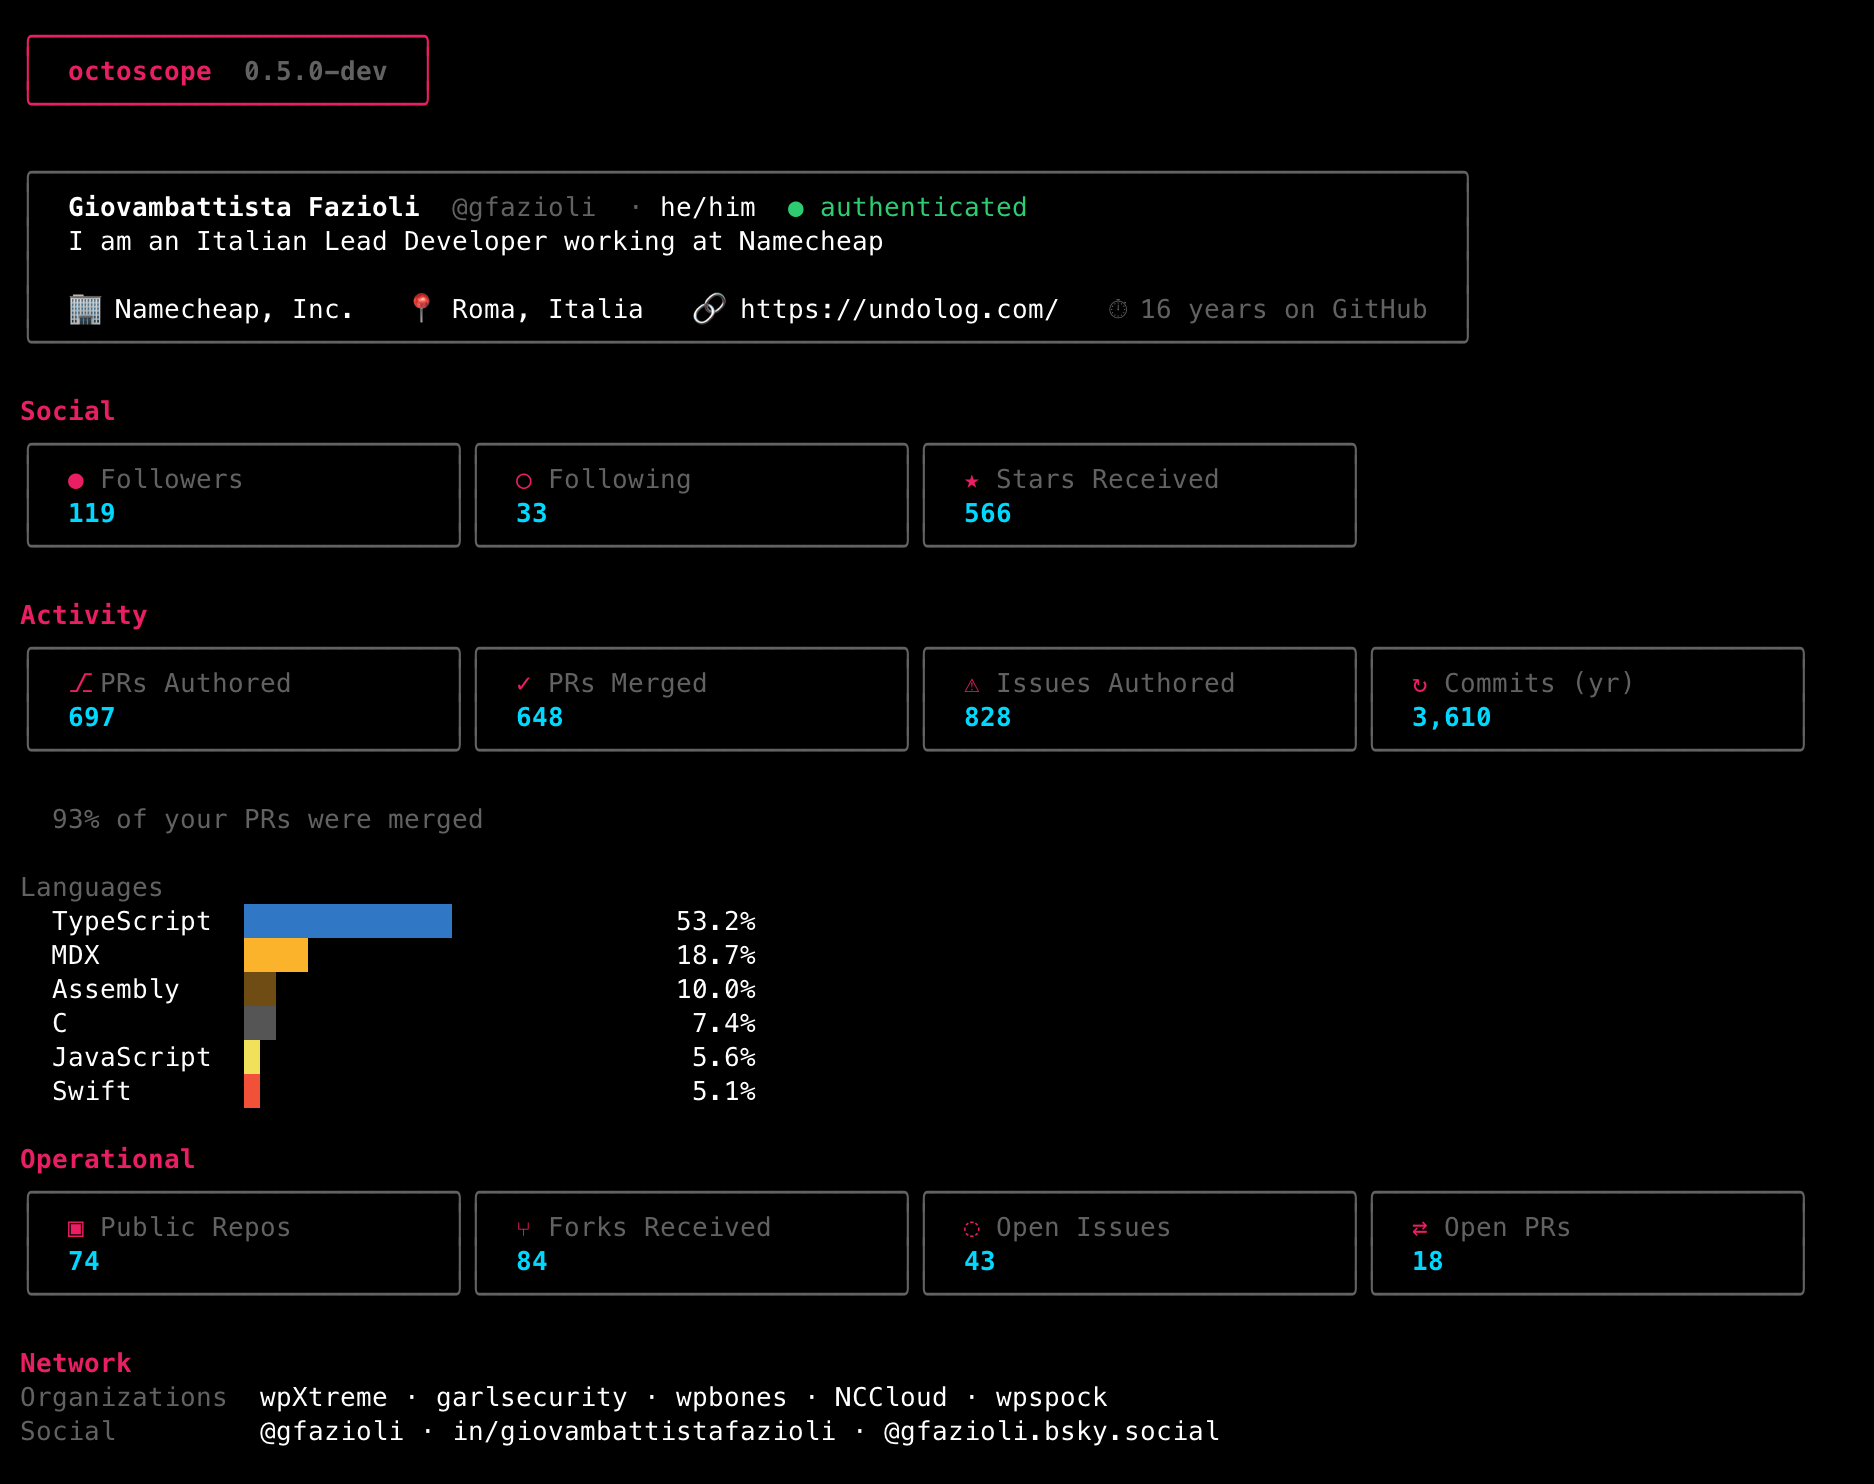
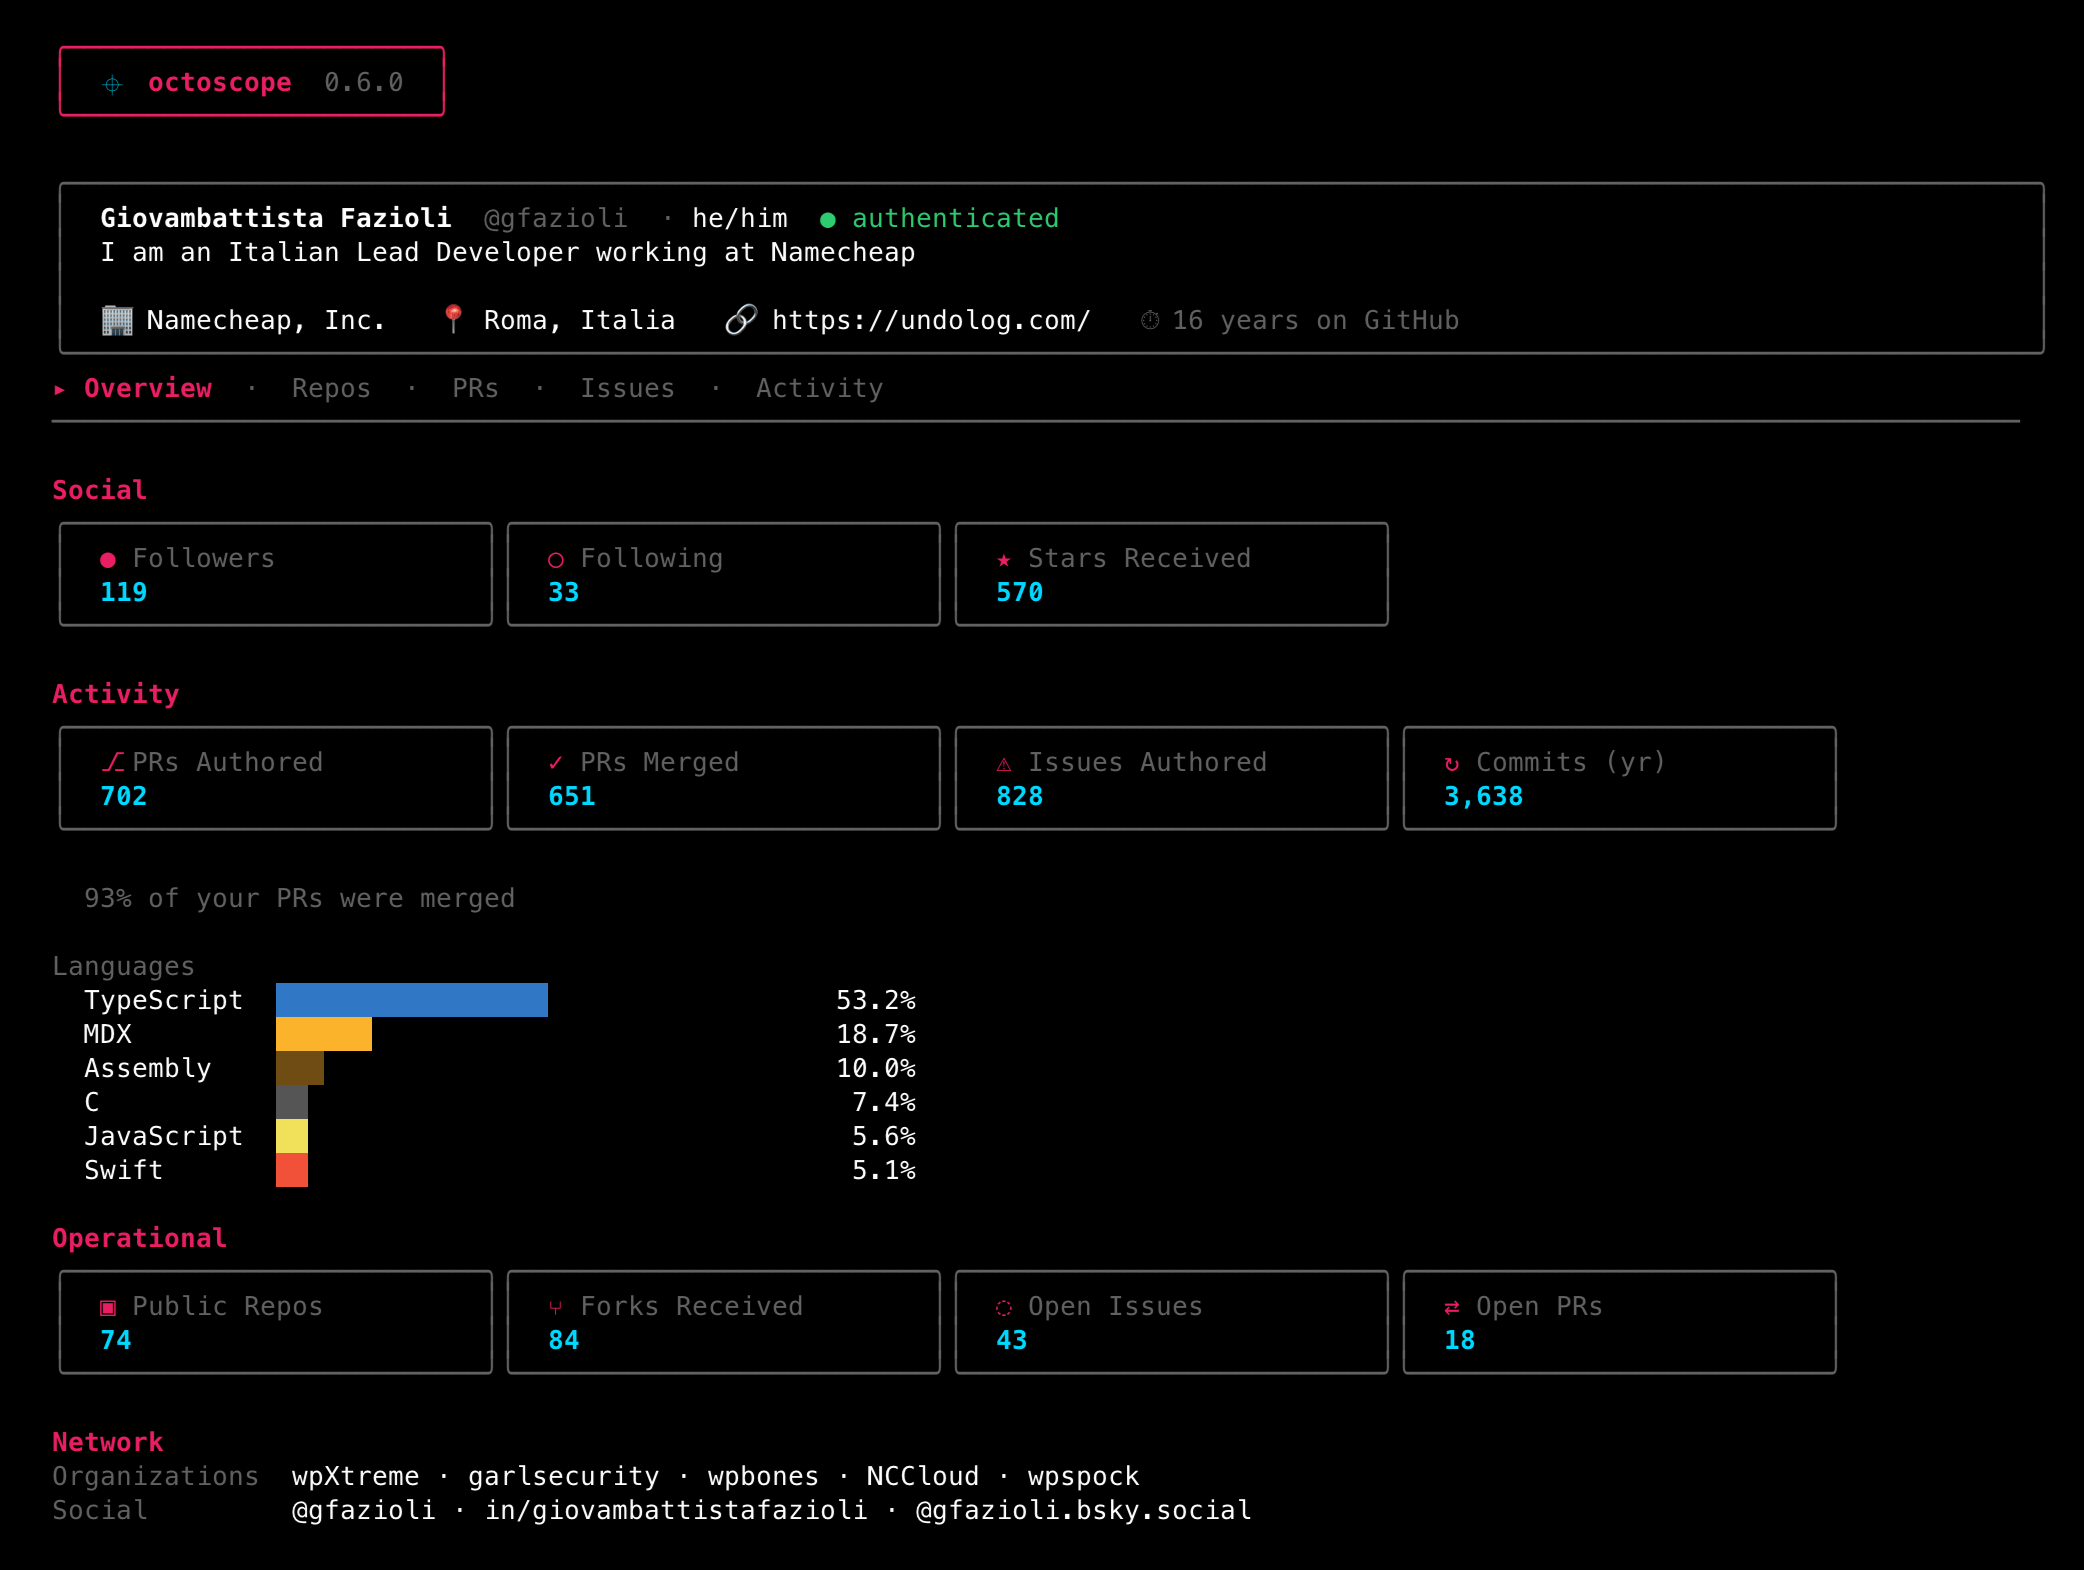
docs: refresh hero screenshot to show v0.6.0 tab bar
Replaces the v0.5.x landing screenshot with the new Overview tab: the
crosshair-glyph banner, the five-tab bar, and all five sections. Alt
text updated to mention the tabs so readers-on-screen-readers get the
same story.

diff --git a/docs/index.html b/docs/index.html
@@ -434,7 +434,7 @@
     <div class="container">
         <div class="demo">
             <div class="demo-frame">
-                <img src="screenshot.png" alt="octoscope dashboard showing profile, social, activity, operational and network sections with a coloured languages bar" />
+                <img src="screenshot.png" alt="octoscope dashboard showing the crosshair banner, the Overview / Repos / PRs / Issues / Activity tab bar, and the profile, social, activity, operational and network sections with a coloured languages bar" />
             </div>
         </div>
 
